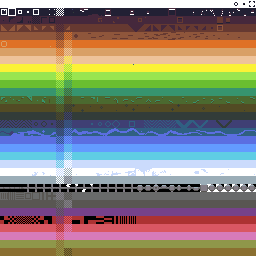
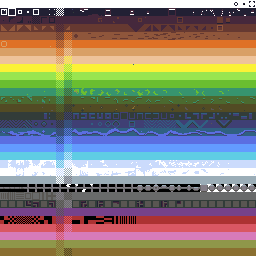
treasure item added, more tile art, map update WIP

diff --git a/js/entities/treasure.js b/js/entities/treasure.js
@@ -1,0 +1,41 @@
+class Treasure {
+    constructor(x,y) {
+        this.x = x * 8;
+        this.y = y * 8;
+        this.width = 4;
+        this.height = 4;
+        this.left = this.x-4;
+        this.right = this.x + this.width;
+        this.top = this.y;
+        this.bottom = this.y + this.height;
+    }
+
+    update() {
+        if(rectCollision(this, player.collider)) {
+            this.collect();
+        }
+        for(let i = 0; i < 2; i++) {
+            let particle = new Particle(this.left + Math.random()*this.width, this.y-2, 0, Math.random() * -1,
+             {color: COLORS.elfGreen, life: Math.random() * 10});
+            world.entities.push(particle);
+        }
+    }
+    
+    draw() {
+        //canvasContext.drawImage(img["key"], this.x-view.x, this.y-view.y);
+        fillRect(this.left-view.x, this.top-view.y, this.width, this.height, COLORS.atlantis);
+    }
+
+    collect() {
+        console.log('collected treasure');
+        signal.dispatch('getTreasure', {item: this});
+        audio.playSound(loader.sounds.test2);
+        for(let i = 0; i < 20; i++) {
+            let particle = new Particle(this.left + Math.random()*this.width, this.y-2, Math.random() * 2-1, Math.random() * -2,
+             {color: COLORS.elfGreen, life: Math.random() * 20});
+             world.entities.push(particle)
+        }
+        inventory.score += 100;
+        world.entities.splice(world.entities.indexOf(this), 1);
+    }
+}

diff --git a/js/core/world.js b/js/core/world.js
@@ -255,7 +255,14 @@ World.prototype.populateMapObjects = function(){
                     let scrapper = new Scrapper(i,j, ...neighbors);
                     //we want Enforcers to follow player beyond screen bounds, so
                     //it goes in worldEntties. 
-                    world.entities.push(scrapper);
+                    world.worldEntities.push(scrapper);
+                    this.setTileAtPosition(i, j, 0);
+                    break;
+                }
+                case TREASURE:{
+                    let treasure = new Treasure(i,j);   
+                    world.entities.push(treasure);
+                    console.log("treasure placed");
                     this.setTileAtPosition(i, j, 0);
                     break;
                 }
@@ -323,6 +330,7 @@ World.prototype.populateMapPalette = function(palette){
     SPAWNER = palette[43];
     ENFORCER = palette[44];
     SCRAPPER = palette[45];
+    TREASURE = palette[46];
     PARTICLE = 1000;
 
     COMBAT_MODE=palette[8];
@@ -333,6 +341,7 @@ World.prototype.populateMapPalette = function(palette){
 }
 
 World.prototype.populateCSSColorsArray = function(){
+    //these color constants meant to be used for drawing.
     COLORS = {
         transparent: convertUint32ToRGBA(COLOR_BLACK__TRANSPARENT),
         valhalla: convertUint32ToRGBA(COLOR_VALHALLA),

diff --git a/js/entities/scrapper.js b/js/entities/scrapper.js
@@ -248,7 +248,7 @@ class Scrapper {
         map(this.x-view.x, 0, canvas.width, -0.7, 0.7), 0.7, 1+Math.random()*0.2, false);
         world.entities.push(new Splode(this.x + this.width/2, this.y + this.width/2, 20, COLORS.goldenFizz));
 
-        world.entities.splice(world.entities.indexOf(this), 1);
+        world.worldEntities.splice(world.entities.indexOf(this), 1);
 
         for(let i = 0; i < 40; i++) {
             let angle = (Math.PI*2/40) * i;

diff --git a/index.html b/index.html
@@ -48,6 +48,7 @@
         <script src="js/entities/enforcer.js"></script>
         <script src="js/entities/scrapper.js"></script>
         <script src="js/entities/particle.js"></script>
+        <script src="js/entities/treasure.js"></script>
 
 
         <!-- and finally our main entry point -->
